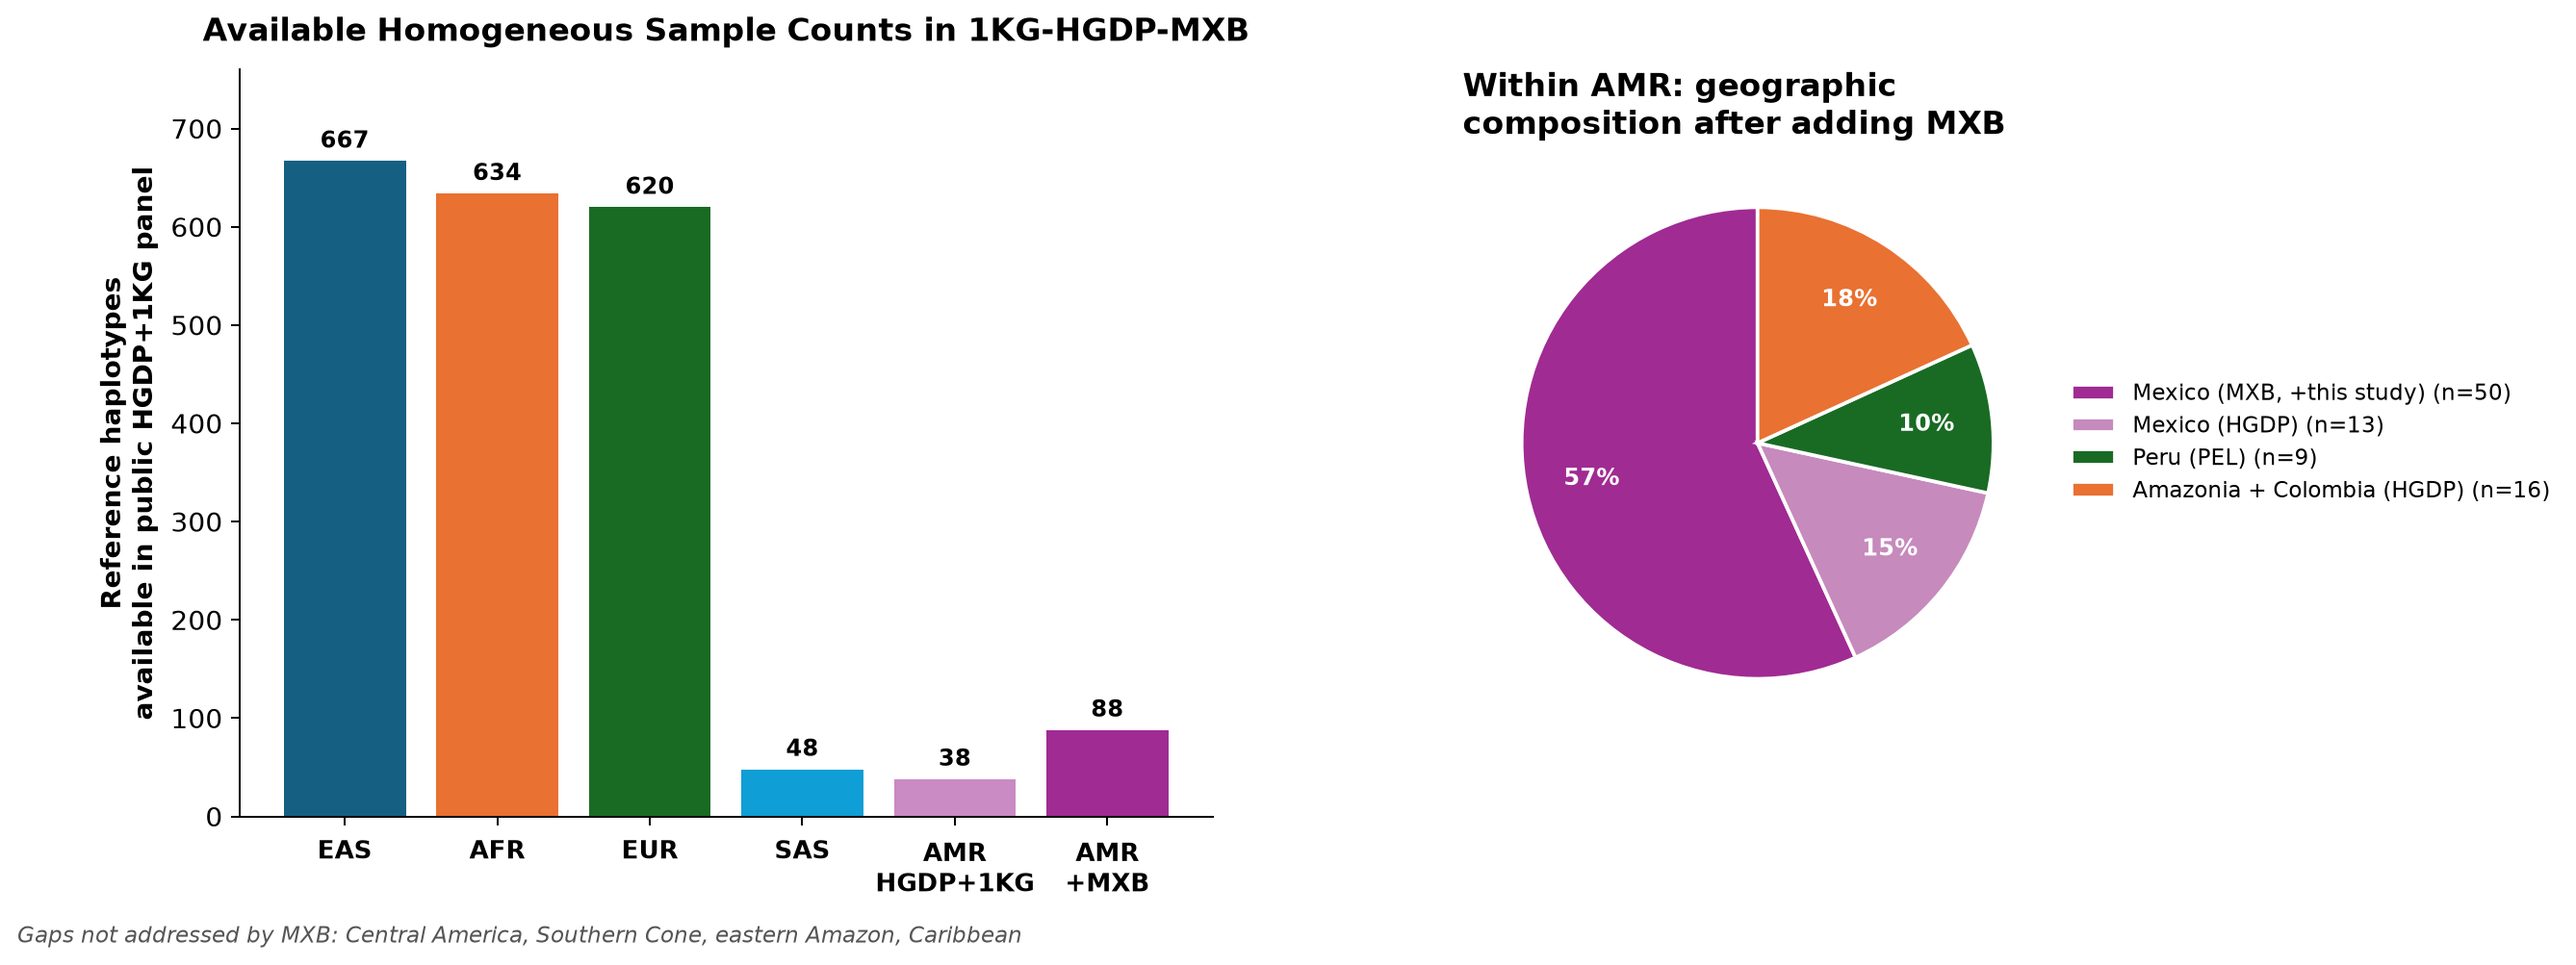
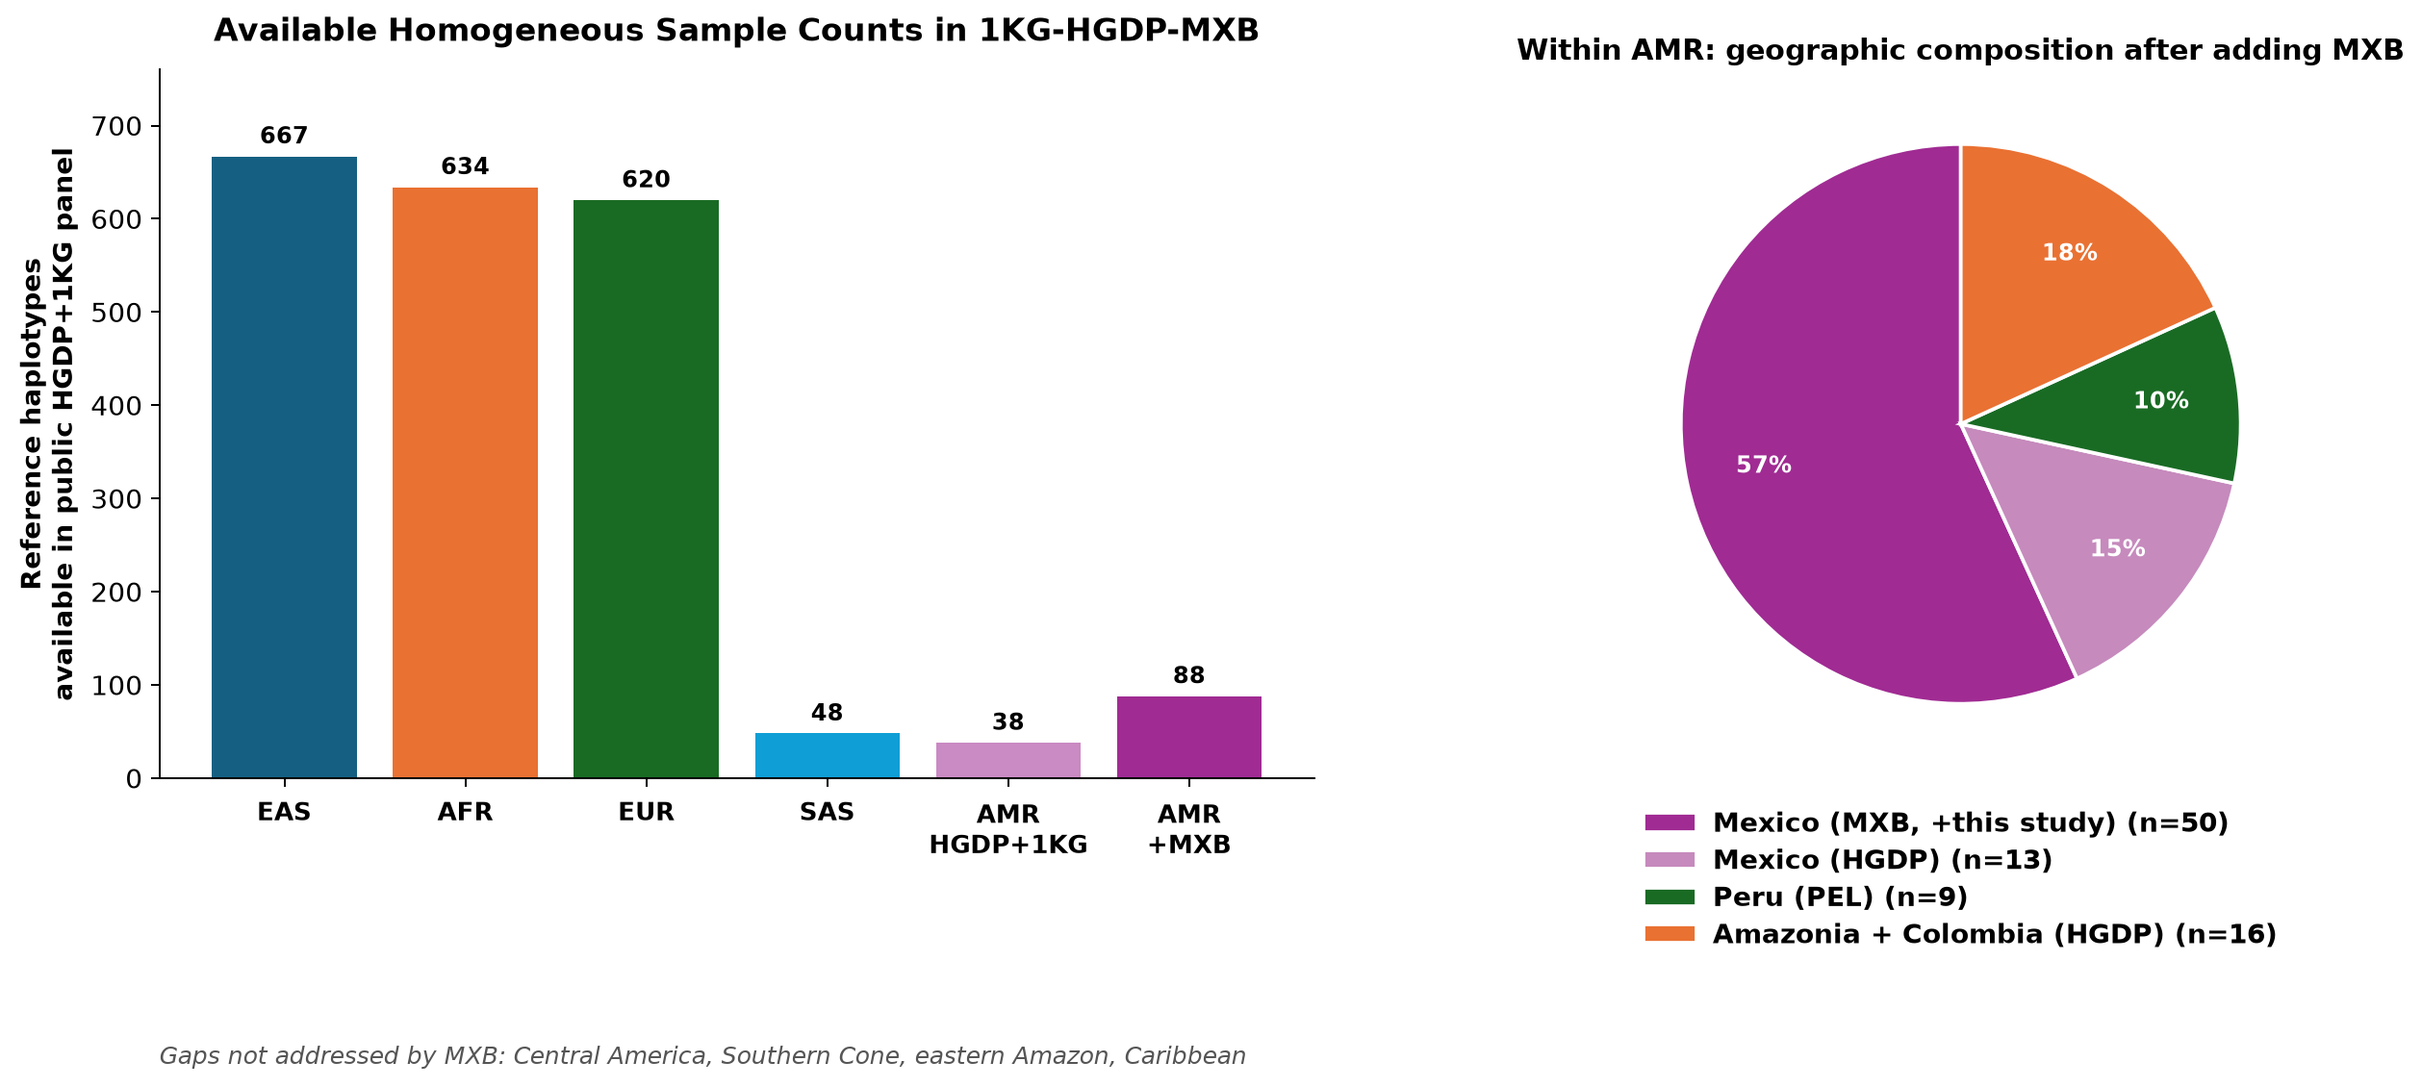
slides/figures: pie legend under pie, bold 11pt
Disparity figure: pie legend moved from right-of-pie to
bottom-center; text 11pt bold, no frame. Figure height bumped
to 6.6in and margins tightened so the legend fits cleanly.

Claude-Session: https://claude.ai/code/session_01Fbouf9yKVWMvU7uqqi6hid

diff --git a/slides/make_figures.py b/slides/make_figures.py
@@ -168,8 +168,9 @@ def fig_chip_vs_wgs():
 
 # ---------------------------------------------------------------- FIG 3: gap
 def fig_amr_disparity():
-    fig = plt.figure(figsize=(13.5, 5.6), dpi=180)
-    gs = fig.add_gridspec(1, 2, width_ratios=[1.65, 1.0], wspace=0.32)
+    fig = plt.figure(figsize=(13.5, 6.6), dpi=180)
+    gs = fig.add_gridspec(1, 2, width_ratios=[1.65, 1.0], wspace=0.32,
+                          bottom=0.28, top=0.90, left=0.06, right=0.98)
 
     # left: bars, samples per continental group in public references
     ax1 = fig.add_subplot(gs[0, 0])
@@ -207,17 +208,19 @@ def fig_amr_disparity():
         wedgeprops=dict(edgecolor="white", linewidth=1.5),
         textprops=dict(fontsize=9.5, color="white", fontweight="bold"),
     )
-    ax2.set_title("Within AMR: geographic\ncomposition after adding MXB",
-                  loc="left", fontweight="bold")
-    ax2.legend(wedges, [f"{p} (n={s})" for p, s in zip(parts, sizes)],
-               loc="center left", bbox_to_anchor=(1.0, 0.5),
-               fontsize=9)
+    ax2.set_title("Within AMR: geographic composition after adding MXB",
+                  loc="center", fontweight="bold", fontsize=12)
+    leg = ax2.legend(wedges, [f"{p} (n={s})" for p, s in zip(parts, sizes)],
+                     loc="upper center", bbox_to_anchor=(0.5, -0.02),
+                     fontsize=11, frameon=False, ncol=1,
+                     handletextpad=0.6, labelspacing=0.4)
+    for t in leg.get_texts():
+        t.set_fontweight("bold")
 
-    fig.text(0.03, -0.02,
+    fig.text(0.06, 0.03,
              "Gaps not addressed by MXB: Central America, Southern Cone, "
              "eastern Amazon, Caribbean",
-             fontsize=9, color="#555", style="italic")
-    fig.tight_layout()
+             fontsize=10, color="#555", style="italic")
     out = OUT / "fig_amr_disparity.png"
     fig.savefig(out, bbox_inches="tight")
     plt.close(fig)
